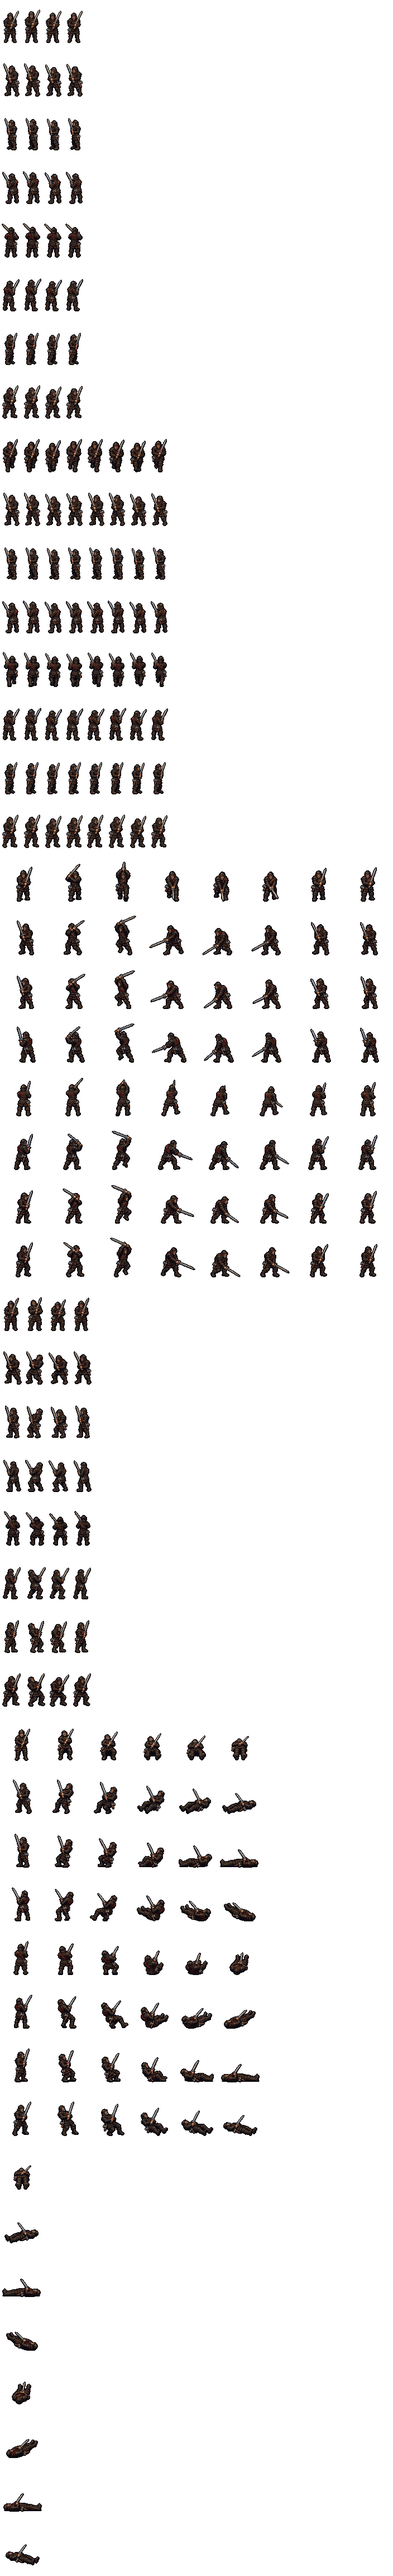
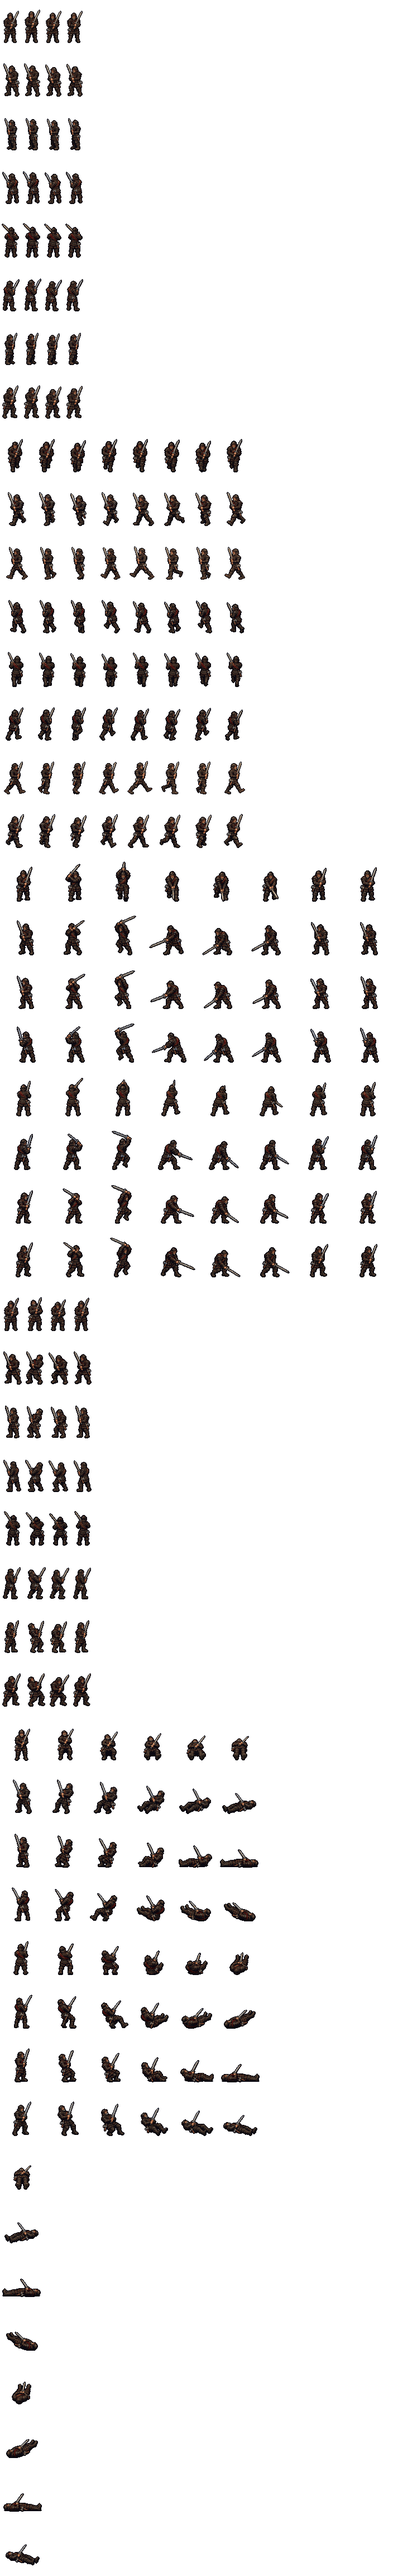
The Dominion's held walks cut: the sergeant's and the mender's redraws (art-wanted 104, 105)
ART-163 and ART-164 came back as whole packages, the 11-25 pages repeated
(111 by md5, to _dupes/). New and cut by cutter-1125b:
- dmsergeant_p2: SE and E Walk redrawn; rear NE as first drawn, on Griz's
  approval in the art desk's handoff (its gait redraw to the dream list).
- dmsergeantshield_p2: SE, E and N Walk redrawn; rear NE as first drawn.
- mender_p2: SE, E, NE and N Walk redrawn, and N Prone from her Fall's end.
No view glides on its idle now (walk_idle, WALK_IDLE, HELD_PRONE emptied).

tools/mender-sheet.py read_page drops a printed rule line (RULE: at most
4 px thin, 400 long): the shield kit's SE redraw is two bands pasted, a
hairline the page wide at each seam, joined to frame 6 (a 284 px walk cell).

Eyes: eyes-dmsergeant-fight-1125 and eyes-mender-fight-1125 (unseen; each
said the walks glided on the idle) cut for -1125b, written fresh.
Dream list: the rear NE walks (both kits); the shield kit's N walk frame 6
drawn ~12% short. Stamps rebuilt.

His words: "we take its best shot even if they're broken, we have the dream
list if they can't successfully complete the task after two attempts"

Changed region(s): [[0.0, 0.1562, 0.4688, 0.3438], [0.5625, 0.1562, 0.625, 0.3438], [0.5, 0.1562, 0.5312, 0.3438]]

diff --git a/js/eyes.js b/js/eyes.js
@@ -436,14 +436,16 @@
     // THE CUTTER (cutter-1125), 11-25 (Opus; tools/dmsergeant-sheet.py, tools/mender-sheet.py, tools/portrait-sheet.py; data/foes.js sergeantblade, sergeantledger,
     // mender; snoot-mode/js/data.js SN.DOMINION): art-wanted 99 and 100 (ART-163, ART-164). No unseen row asked the same: eyes-dominion-patrol-grid-1124 and
     // eyes-snoot-dominion-wagons-1124 still ask the patrol's fight (their stand-in figures' lines made true), eyes-dominion-fight-1124 the line soldier -- all kept
-    'eyes-dmsergeant-fight-1125': { pri: 2, group: G2, title: 'THE DOMINION\'S SERGEANT DRAWN: one man in two kits, the greatsword, and the longsword and shield with the wall\'s Push, all eight facings (11-25)', pt: 'the story build lane, 2026-11-25 (the cutter, cutter-1125; tools/dmsergeant-sheet.py; deep16/art/dmsergeant_p2, dmsergeantshield_p2; data/foes.js sergeantblade, sergeantledger)',
-      obj: 'In the gallery, step the sergeant\'s two kits beside his line soldier: the greatsword, the sword and shield, the Push. One man?',
-      url: 'deep16/?gallery&shelf=creatures&rows=dmsergeant_p2,dmsergeantshield_p2,dominion_p2&beside&lvl=3&fresh=1125sg',
-      look: 'NEW, the art desk\'s ART-163 (art-wanted 99, your "I don\'t want to art request a sergeant variant - we could add combat rows to the sergeant we\'re already requesting"): the one sergeant, grey at the temples, in black plate with the crimson sash, in his two kits. Left, THE BLADE (data/foes.js sergeantblade): idle, walk, ATTACK (the greatsword two-handed, home on frame 4), flinch, fall, prone, the handaxe at his right hip. Middle, THE LEDGER (sergeantledger): idle, walk, ATTACK (the longsword, home on 4), PUSH (the shield wall\'s shove, home on 4 -- it plays when his wall shoves, as the line soldier\'s does), flinch, fall, prone. Right, the line soldier he leads, at one height. All eight facings (SW, W, NW the mirrors). HELD BY THE ART DESK, NOT CUT: his walks in SE, E and NE in both kits, and N with the shield -- in those views he glides on his own idle till the redraws come. His prone is his Fall\'s last frame. They stood on the line soldier\'s figure till now, in the wagon\'s grid fight and on the Snoot\'s board. Judge: is he one man in both kits, and does each blow read?' },
-    'eyes-mender-fight-1125': { pri: 2, group: G2, title: 'THE DOMINION\'S MENDER DRAWN: the mace, the mirror held out and the mirror raised, all eight facings (11-25)', pt: 'the story build lane, 2026-11-25 (the cutter, cutter-1125; tools/mender-sheet.py; deep16/art/mender_p2; data/foes.js mender)',
-      obj: 'Watch the mender fight on the show: the mace, the mirror held out, the mirror raised. Is she the patrol\'s cleric?',
-      url: 'deep16/?show=mender&lvl=3&fresh=1125md',
-      look: 'A SHOW, the Mender staged against the four at 3rd, the dice pinned. NEW, the art desk\'s ART-164 (art-wanted 100): the Glass-Cleric of your patrol page, the small mirror on a cord at her breastplate, the cap, the plum robe, the mace she "would rather not" use. Rows in all eight facings (SW, W, NW the mirrors): idle, walk, ATTACK (the mace, home on frame 3), CAST (the mirror held out on its cord, on 4: her aimed spells), CASTUP (the mirror lifted overhead, on 4: her Doubling, Bless, the spells aimed at no one), flinch, fall (the mace let go), prone. No glow is drawn: the light is the engine\'s spells. HELD BY THE ART DESK, NOT CUT: her walks in SE, E, NE and N (she glides on her own idle there till the redraws) and her N prone (N\'s last Fall frame held). The 64 colours have no plum: her robe is kept off the navy greys, a plum-brown. She stood on the stock cleric\'s figure till now. Judge: is she the mender, and do the two mirror casts read?' },
+    // THE CUTTER (cutter-1125b), 11-25 later (Opus; tools/dmsergeant-sheet.py, tools/mender-sheet.py): art-wanted 104 and 105 came back. CUT, superseded by the two
+    // rows below: eyes-dmsergeant-fight-1125 and eyes-mender-fight-1125 (unseen; each told him the walks were held and glided on the idle, no longer so)
+    'eyes-dmsergeant-fight-1125b': { pri: 2, group: G2, title: 'THE DOMINION\'S SERGEANT DRAWN, HIS WALKS REDRAWN: one man in two kits, the greatsword, and the longsword and shield with the wall\'s Push, all eight facings (11-25, later)', pt: 'the story build lane, 2026-11-25 (the cutters cutter-1125 and cutter-1125b; tools/dmsergeant-sheet.py; deep16/art/dmsergeant_p2, dmsergeantshield_p2; data/foes.js sergeantblade, sergeantledger)',
+      obj: 'In the gallery, step the sergeant\'s two kits beside his line soldier: the walks, the greatsword, the sword and shield, the Push. One man?',
+      url: 'deep16/?gallery&shelf=creatures&rows=dmsergeant_p2,dmsergeantshield_p2,dominion_p2&beside&lvl=3&fresh=1125sgb',
+      look: 'NEW, the art desk\'s ART-163 (art-wanted 99, your "I don\'t want to art request a sergeant variant - we could add combat rows to the sergeant we\'re already requesting"), with his held walks redrawn (art-wanted 104, your "we take its best shot even if they\'re broken"): the one sergeant, grey at the temples, in black plate with the crimson sash, in his two kits. Left, THE BLADE (data/foes.js sergeantblade): idle, WALK, ATTACK (the greatsword two-handed, home on frame 4), flinch, fall, prone, the handaxe at his right hip. Middle, THE LEDGER (sergeantledger): idle, WALK, ATTACK (the longsword, home on 4), PUSH (the shield wall\'s shove, home on 4 -- it plays when his wall shoves, as the line soldier\'s does), flinch, fall, prone. Right, the line soldier he leads, at one height. All eight facings (SW, W, NW the mirrors). THE WALKS: all five views drawn in both kits now -- SE and E (and N with the shield) the art desk\'s redraws; the rear NE as first drawn, its lead-leg change unclear, cut on your approval with its redraw on the dream list; with the shield, N\'s sixth frame is drawn a little small, a dip in his stride. His prone is his Fall\'s last frame. Judge: is he one man in both kits, does he walk, and does each blow read?' },
+    'eyes-mender-fight-1125b': { pri: 2, group: G2, title: 'THE DOMINION\'S MENDER DRAWN, HER WALKS AND NORTH PRONE REDRAWN: the mace, the mirror held out and the mirror raised, all eight facings (11-25, later)', pt: 'the story build lane, 2026-11-25 (the cutters cutter-1125 and cutter-1125b; tools/mender-sheet.py; deep16/art/mender_p2; data/foes.js mender)',
+      obj: 'Watch the mender fight on the show: her walk, the mace, the mirror held out, the mirror raised. Is she the patrol\'s cleric?',
+      url: 'deep16/?show=mender&lvl=3&fresh=1125mdb',
+      look: 'A SHOW, the Mender staged against the four at 3rd, the dice pinned. NEW, the art desk\'s ART-164 (art-wanted 100), with her held pages redrawn (art-wanted 105): the Glass-Cleric of your patrol page, the small mirror on a cord at her breastplate, the cap, the plum robe, the mace she "would rather not" use. Rows in all eight facings (SW, W, NW the mirrors): idle, WALK (all five views drawn now -- SE, E, NE and N the redraws, the lead boot changing at frames 1 and 5), ATTACK (the mace, home on frame 3), CAST (the mirror held out on its cord, on 4: her aimed spells), CASTUP (the mirror lifted overhead, on 4: her Doubling, Bless, the spells aimed at no one), flinch, fall (the mace let go), prone (N redrawn from her Fall\'s end, the mace beside her hand). No glow is drawn: the light is the engine\'s spells. The 64 colours have no plum: her robe is kept off the navy greys, a plum-brown. She stood on the stock cleric\'s figure till now. Judge: is she the mender, does she walk, and do the two mirror casts read?' },
     'eyes-dominion-portraits-1125': { pri: 2, group: G2, title: 'THE SERGEANT\'S AND THE MENDER\'S TALKING PORTRAITS: the idles you approved, ART-163 and ART-164 (11-25)', pt: 'the story build lane, 2026-11-25 (the cutter, cutter-1125; tools/portrait-sheet.py; deep16/art/pt_dmsergeant, pt_dmmender)',
       obj: 'Look at the sergeant\'s and the mender\'s talking portraits, six frames each. Are these the faces you approved?',
       url: 'deep16/?portraits&who=dmsergeant,dmmender&lvl=3&fresh=1125pt',

diff --git a/deep16/data/sprites.js b/deep16/data/sprites.js
@@ -4155,7 +4155,7 @@
 "source": "generated by Griz (2026-10-07, his third sheet in two; the walk his second, 2026-09-27), cut by tools/denny-p3.py"
 },
 "dmsergeant_p2": {
-"image": "art/dmsergeant_p2.png?v=d373e8cc6c",
+"image": "art/dmsergeant_p2.png?v=d4382d62b4",
 "fw": 38,
 "fh": 96,
 "ax": 19,
@@ -4173,9 +4173,9 @@
 },
 "walk": {
 "y": 768,
-"fw": 38,
+"fw": 56,
 "fh": 96,
-"ax": 19,
+"ax": 28,
 "ay": 76,
 "frames": 8,
 "fps": 9
@@ -4220,7 +4220,7 @@
 },
 "name": "Sergeant (the Blade)",
 "hold": [
-"walk: S and N drawn; SE, E and NE (and their mirrors) play his own idle twice -- the art desk held those three walks (frames 1 and 5 the same lead) and ImageGen ran out before the redraws (its own notes); a cutter takes the redraws when they come",
+"walk: all five drawn -- SE and E the art desk's 11-25 redraws (art-wanted 104); rear NE as first drawn, frames 1 and 5 an unclear lead change, cut on his approval with its gait redraw on the dream list (the NW mirror with it)",
 "attack: the greatsword two-handed over the greataxe guide, contact on frame 4",
 "the handaxe stowed at his right hip throughout (the art desk's own note): data/foes.js sergeantblade throws none yet",
 "prone: the last Fall cel held (the art desk's Prone is a literal crop of it)"
@@ -4228,7 +4228,7 @@
 "source": "drawn by the art desk (ART-163 PAGE 3, 11-25: art-wanted section 99, the Dominion's sergeant with the greatsword in five views), cut by tools/dmsergeant-sheet.py over tools/vivian-sheet.py; SW W NW mirrored"
 },
 "dmsergeantshield_p2": {
-"image": "art/dmsergeantshield_p2.png?v=da78a2da37",
+"image": "art/dmsergeantshield_p2.png?v=725412642b",
 "fw": 44,
 "fh": 96,
 "ax": 22,
@@ -4246,9 +4246,9 @@
 },
 "walk": {
 "y": 768,
-"fw": 44,
+"fw": 48,
 "fh": 96,
-"ax": 22,
+"ax": 24,
 "ay": 76,
 "frames": 8,
 "fps": 9
@@ -4303,7 +4303,7 @@
 },
 "name": "Sergeant (the Ledger)",
 "hold": [
-"walk: S drawn; SE, E, NE and N (and their mirrors) play his own idle twice -- the art desk held those four walks (frames 1 and 5 the same lead) and ImageGen ran out before the redraws (its own notes); a cutter takes the redraws when they come",
+"walk: all five drawn -- SE, E and N the art desk's 11-25 redraws (art-wanted 104; N reverses the trailing boot at 5); rear NE as first drawn, frames 1 and 5 an unclear lead change, cut on his approval with its gait redraw on the dream list (the NW mirror with it)",
 "attack: the longsword over the longsword-and-shield guide, contact on frame 4",
 "push: the shield wall's shove, home on frame 4 -- deep16/js/features.js THE PUSH plays a sheet's `push`, as the line soldier's",
 "prone: the last Fall cel held (the art desk's Prone is a literal crop of it)"
@@ -13133,7 +13133,7 @@
 "door": "keeper:mela"
 },
 "mender_p2": {
-"image": "art/mender_p2.png?v=91ea229a10",
+"image": "art/mender_p2.png?v=a68a6517a2",
 "fw": 30,
 "fh": 96,
 "ax": 15,
@@ -13151,9 +13151,9 @@
 },
 "walk": {
 "y": 768,
-"fw": 36,
+"fw": 38,
 "fh": 96,
-"ax": 18,
+"ax": 19,
 "ay": 76,
 "frames": 8,
 "fps": 10
@@ -13218,8 +13218,8 @@
 },
 "name": "Mender",
 "hold": [
-"walk: S drawn; SE, E, NE and N (and their mirrors) play her own idle twice -- the art desk held those four walks (frames 1 and 5 the same lead) and ImageGen ran out before the redraws (its own notes); a cutter takes the redraws when they come",
-"prone: S, SE, E and NE as drawn, matched by width to their Fall 6; N is N Fall 6 held -- its own Prone was held, propped higher than the Fall's end (the art desk's own note)",
+"walk: all five drawn -- SE, E, NE and N the art desk's 11-25 redraws (art-wanted 105), 1 and 5 opposite leads; check the cadence at the loop seam (its own note)",
+"prone: all five drawn, matched by width to their Fall 6 -- N redrawn 11-25 from its Fall 6 crop, the mace beside the right hand",
 "attack: the mace home on frame 3 (`release` 2, as katarina_p2's)",
 "cast: the mirror held out on its cord on frame 4; castup: the mirror lifted overhead on 4 -- no glow drawn, the engine's spells are the light",
 "the mirror's cord is fine at game size: check it reads (the art desk's own note)"

diff --git a/deep16/index.html b/deep16/index.html
@@ -113,7 +113,7 @@
 <script src="js/art.js?v=e1ce4cf012"></script>
 <script src="data/cavern.js?v=647c1a184a"></script>
 <script src="data/maps.js?v=d33fd7d069"></script>
-<script src="data/sprites.js?v=a68c470e94"></script>
+<script src="data/sprites.js?v=3c77a11dd3"></script>
 <script src="js/sprites.js?v=6d0752045d"></script>
 <script src="js/save.js?v=afbd9d9582"></script>
 <script src="data/spells.js?v=5245b60266"></script>
@@ -230,7 +230,7 @@
 <script src="js/parade.js?v=d6c6aba1dc"></script>
 <script src="js/ripplesfight.js?v=6b8c16eeac"></script>
 <script src="js/blackegg.js?v=aecca221cc"></script>
-<script src="../js/eyes.js?v=4fdb01a204"></script>
+<script src="../js/eyes.js?v=600d50966c"></script>
 <script src="../js/tour.js?v=bd4c5f3949"></script>
 <script src="js/onegallery.js?v=b8317cb4a0"></script>
 <script src="js/situations16.js?v=cc81728a85"></script>

diff --git a/tools/dmsergeant-sheet.py b/tools/dmsergeant-sheet.py
@@ -19,7 +19,9 @@ data/foes.js gives him no thrown blow yet).
 WHAT IS HELD (each zip's art-hold/: "The three held sheets need a fresh eight-phase gait before cutting"; the shield kit's four): the walks of SE, E and rear NE in
 the greatsword kit, and SE, E, NE and N in the shield kit (frames 1 and 5 the same lead). Not cut: the walk is each kit's drawn walk where it was cleared (the
 greatsword's S and N, the shield's S) and elsewhere his own idle in that view played twice, as the mender's (tools/mender-sheet.py WALK_IDLE) -- he glides facing the
-way he goes till the redraws come.
+way he goes till the redraws come. THE REDRAWS CAME 11-25 (art-wanted 104; each kit's CUTTER-HANDOFF again, its "November 25 Walk redraws"): SE and E in both kits
+and N with the shield, drawn anew; the rear NE in both "included as drawn" on Griz's approval (its gait redraw deferred to the dream list, the NW mirror with
+it). Sorted into the same batches by the cutter seat cutter-1125b (the held pages and the old FRAME-MAPs to their superseded/); walk_idle empty in both kits.
 
 The cut is tools/mender-sheet.py's reader (read_page, windows) over tools/vivian-sheet.py: each page read whole, the printed numbers dropped (those printed
 within 6 px of his boots too), every loose piece to the nearest frame (a blade's tip); each upright frame on its boots, each lying one on its lowest row; the
@@ -49,11 +51,11 @@ CROWN = 50       # (source px: his crown the first run this wide that is not ste
 KITS = {
     'dmsergeant_p2': dict(batch='2026-11-25-ART-163-GREATSWORD', name='Sergeant (the Blade)',
                           N={'idle': 4, 'walk': 8, 'attack': 8, 'flinch': 4, 'hurt': 6, 'prone': 1},
-                          walk_idle=('SE', 'E', 'NE'),
+                          walk_idle=(),           # (11-25b: SE and E redrawn, rear NE cut as drawn on his approval -- art-wanted 104)
                           rows=[('idle', 4, 4), ('walk', 9, 8), ('attack', 12, 8), ('flinch', 12, 4), ('hurt', 8, 6), ('prone', 1, 1)],
                           release={'attack': 3},
-                          hold=['walk: S and N drawn; SE, E and NE (and their mirrors) play his own idle twice -- the art desk held those three walks (frames 1 and 5 '
-                                'the same lead) and ImageGen ran out before the redraws (its own notes); a cutter takes the redraws when they come',
+                          hold=['walk: all five drawn -- SE and E the art desk\'s 11-25 redraws (art-wanted 104); rear NE as first drawn, frames 1 and 5 an unclear '
+                                'lead change, cut on his approval with its gait redraw on the dream list (the NW mirror with it)',
                                 'attack: the greatsword two-handed over the greataxe guide, contact on frame 4',
                                 'the handaxe stowed at his right hip throughout (the art desk\'s own note): data/foes.js sergeantblade throws none yet',
                                 'prone: the last Fall cel held (the art desk\'s Prone is a literal crop of it)'],
@@ -61,11 +63,11 @@ KITS = {
                                  'cut by tools/dmsergeant-sheet.py over tools/vivian-sheet.py; SW W NW mirrored'),
     'dmsergeantshield_p2': dict(batch='2026-11-25-ART-163-LONGSWORD-SHIELD', name='Sergeant (the Ledger)',
                                 N={'idle': 4, 'walk': 8, 'attack': 8, 'push': 6, 'flinch': 4, 'hurt': 6, 'prone': 1},
-                                walk_idle=('SE', 'E', 'NE', 'N'),
+                                walk_idle=(),     # (11-25b: SE, E and N redrawn, rear NE cut as drawn on his approval -- art-wanted 104)
                                 rows=[('idle', 4, 4), ('walk', 9, 8), ('attack', 12, 8), ('push', 10, 6), ('flinch', 12, 4), ('hurt', 8, 6), ('prone', 1, 1)],
                                 release={'attack': 3, 'push': 3},
-                                hold=['walk: S drawn; SE, E, NE and N (and their mirrors) play his own idle twice -- the art desk held those four walks (frames 1 and 5 '
-                                      'the same lead) and ImageGen ran out before the redraws (its own notes); a cutter takes the redraws when they come',
+                                hold=['walk: all five drawn -- SE, E and N the art desk\'s 11-25 redraws (art-wanted 104; N reverses the trailing boot at 5); rear NE as '
+                                      'first drawn, frames 1 and 5 an unclear lead change, cut on his approval with its gait redraw on the dream list (the NW mirror with it)',
                                       'attack: the longsword over the longsword-and-shield guide, contact on frame 4',
                                       'push: the shield wall\'s shove, home on frame 4 -- deep16/js/features.js THE PUSH plays a sheet\'s `push`, as the line soldier\'s',
                                       'prone: the last Fall cel held (the art desk\'s Prone is a literal crop of it)'],

diff --git a/tools/mender-sheet.py b/tools/mender-sheet.py
@@ -15,7 +15,8 @@ drawn apart where Katarina's are one.
 WHAT IS HELD (its art-hold/: "No art-hold file is a selected production source"): the SE, E, NE and N Walks (frames 1 and 5 the same lead) and N Prone (propped
 higher than Fall 6). Not cut: N Prone is N Fall 6 held, as the notes say ("Hold Fall 6 at the transition if a temporary fallback is needed"); the walk is S's own
 drawn walk, and in SE, E, NE and N (and their mirrors) her own idle, played through twice, so she glides facing the way she goes till the redraws come
-(WALK_IDLE). A cutter takes the redrawn walks into PLAN when they land.
+(WALK_IDLE). THE REDRAWS CAME 11-25 (art-wanted 105; ART-164's CUTTER-HANDOFF, its "November 25 art repairs"): the four Walks and N Prone sorted into the same
+batch by the cutter seat cutter-1125b (the held pages and the old FRAME-MAP to its superseded/), cut as drawn; WALK_IDLE and HELD_PRONE empty.
 
 THE READER (read_page; tools/dmsergeant-sheet.py borrows it): its FRAME-MAP.csv names each page's action, count and printed bands but gives no boxes, so each
 page is read whole: tools/dominion-sheet.py drawings() -- the matte at BGTOL, the printed title and frame numbers dropped (cream glyphs), the pieces within 6 px
@@ -41,6 +42,7 @@ VIEWS = ('S', 'SE', 'E', 'NE', 'N')
 LYING = {('hurt', 3), ('hurt', 4), ('hurt', 5), ('prone', 0)}
 JOIN = 80        # (source px: a loose piece farther than this from every frame is left out, and named)
 TEXT = 110       # (a loose piece this light at its darkest channel, and grey, is printed text)
+RULE = (4, 400)  # (source px: a loose piece at most 4 thin and at least 400 long is a printed rule, never a frame's -- 11-25b, cutter-1125b)
 
 
 def is_text(px, h):
@@ -88,6 +90,9 @@ def read_page(path, n):
     got = [list(t) for b in bands for t in sorted(b, key=lambda t: t[1][0])]
     notes.insert(0, 'smallest frame %d px, biggest loose piece %d px' % (min(int(d.sum()) for d, _ in main), max([int(d.sum()) for d, _ in rest] or [0])))
     for d, bx in rest:
+        if min(bx[2] - bx[0], bx[3] - bx[1]) <= RULE[0] and max(bx[2] - bx[0], bx[3] - bx[1]) >= RULE[1]:
+            notes.append('rule line: %d px at %s' % (int(d.sum()), bx))     # (a band's seam: ART-163's 11-25 walk redraws, two bands pasted, a hairline the page wide)
+            continue
         if is_text(a[d], bx[3] - bx[1]):
             notes.append('text: %d px at %s' % (int(d.sum()), bx))
             continue
@@ -160,8 +165,8 @@ SRC, BATCH = 'mender', '2026-11-25-ART-164-COMBAT'
 N = {'idle': 4, 'walk': 8, 'attack': 6, 'cast': 6, 'castup': 6, 'flinch': 4, 'hurt': 6, 'prone': 1}
 TALL = 47
 BGTOL = int(os.environ.get('MENDER_BGTOL', '20'))
-WALK_IDLE = ('SE', 'E', 'NE', 'N')      # (their walks held by the art desk: her idle stands in, facing the way she goes)
-HELD_PRONE = ('N',)                     # (N Prone held: N Fall 6 stands in)
+WALK_IDLE = ()          # (11-25b: SE, E, NE and N Walks redrawn -- art-wanted 105; till then her idle stood in, facing the way she went)
+HELD_PRONE = ()         # (11-25b: N Prone redrawn from its Fall 6 crop; till then N Fall 6 stood in)
 HEADS, NOTES = {}, {}
 
 
@@ -194,10 +199,9 @@ LOOK = dict(src=SRC, name='Mender', trim=False, tall=TALL, avoid=AVOID, bgtol=BG
     ground=LYING,                                                                                         #  by their width to their Fall 6)
     rows=[('idle', 4, 4), ('walk', 10, 8), ('attack', 10, 6), ('cast', 10, 6), ('castup', 10, 6), ('flinch', 12, 4), ('hurt', 8, 6), ('prone', 1, 1)],
     release={'attack': 2, 'cast': 3, 'castup': 3},
-    hold=['walk: S drawn; SE, E, NE and N (and their mirrors) play her own idle twice -- the art desk held those four walks (frames 1 and 5 the same lead) and '
-          'ImageGen ran out before the redraws (its own notes); a cutter takes the redraws when they come',
-          'prone: S, SE, E and NE as drawn, matched by width to their Fall 6; N is N Fall 6 held -- its own Prone was held, propped higher than the Fall\'s end '
-          '(the art desk\'s own note)',
+    hold=['walk: all five drawn -- SE, E, NE and N the art desk\'s 11-25 redraws (art-wanted 105), 1 and 5 opposite leads; check the cadence at the loop seam '
+          '(its own note)',
+          'prone: all five drawn, matched by width to their Fall 6 -- N redrawn 11-25 from its Fall 6 crop, the mace beside the right hand',
           'attack: the mace home on frame 3 (`release` 2, as katarina_p2\'s)',
           'cast: the mirror held out on its cord on frame 4; castup: the mirror lifted overhead on 4 -- no glow drawn, the engine\'s spells are the light',
           'the mirror\'s cord is fine at game size: check it reads (the art desk\'s own note)'],

diff --git a/deep16-dream-polish.md b/deep16-dream-polish.md
@@ -184,3 +184,5 @@ Griz, 10-30, to the lanes desk, on Talmok's walks that repeat a leg: *"gimpy art
 - 2026-11-24 · `dragger_p2` walk, all five views (the art desk's ART-159) · Each page drawn at its own size, and the walks drawn leaning into the march, short for their heads: S's walk is 74% of the idle's height on the same head. Cut between the two (by height his head and shoulders grew 37% walking south; by head he ducked 13 px), so S still walks a little short; stood by the page's cells, his crown level, the feet rising off the floor line in S 3-4 and 7-8. The art desk's own note on the lead-foot changes stands. · One walk drawn at the idle's size and camera, the feet on the floor through the stride.
 - 2026-11-24 · `dragger_p2` fall and flinch (the art desk's ART-159) · The art desk's own notes: the Fall's opening frames bring the pike upright off the idle's level (a pop at the hit) and keep it in hand through the collapse; NE's Flinch raises the pike steeply off the idle's angle. Cut as drawn. · A fall that starts from the levelled pike, a flinch that keeps the idle's angle.
 - 2026-11-24 · the joke egg's close-ups, `gnollface_p2` (and its glory-seeker and Gray Keeping twins) and `hyenaface_p2` (the art desk's ART-29 S Idle and S Laugh, ART-30 S Hurt 1) · Cut from the pages at what they hold: the gnoll's S Laugh page only 2.75 page px a game px, so its close-up is 2.33 times the grid, drawn at 3 on screen, not at the screen's own 1; the hyena's face is the art desk's front hyena (its S flinch's first frame, head low), not the grid's S idle still from his 09-29 sheet, so the close-up is a different drawing of it. · Face sheets drawn for the close-ups at the screen's size: the gnoll's face and laugh, the hyena's still face as the grid's still holds its head.
+- 2026-11-25 · `dmsergeant_p2` and `dmsergeantshield_p2` walk, rear NE (and its NW mirror), both kits (the art desk's ART-163, art-wanted 104) · Frames 1 and 5 an unclear lead-leg change: the art desk held the page, then *"Griz approved including the existing rear NE Walk sheet"* in its 11-25 handoff, *"The gait redraw is deferred to the dream list, including the NW mirror"*. Cut as drawn (cutter-1125b). · An eight-phase rear gait, 1 and 5 opposite leads, as the SE and E redraws.
+- 2026-11-25 · `dmsergeantshield_p2` walk, N, frame 6 (the art desk's ART-163 redraw, art-wanted 104) · The page is two bands pasted, the second scale-matched by the art desk; its frame 6 still stands about 12% short (crown to boots 265 source px against 301 to 303 in the other seven), so at game size he dips a few px on that beat. Cut as drawn, the page scaled whole (cutter-1125b). · Frame 6 drawn at the other seven's height.
